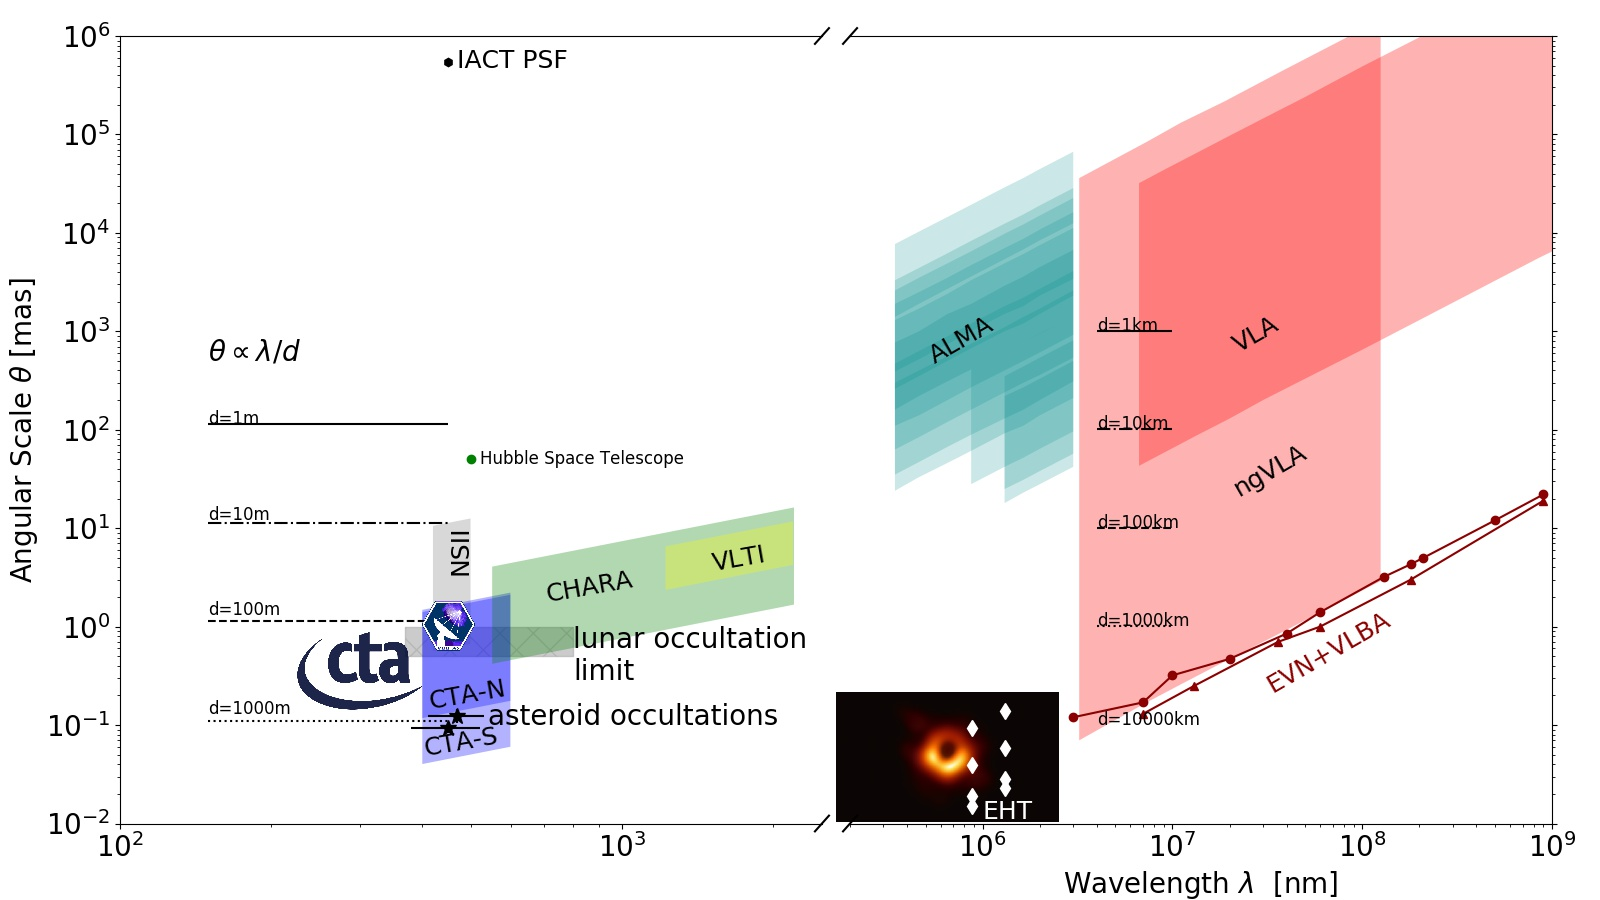
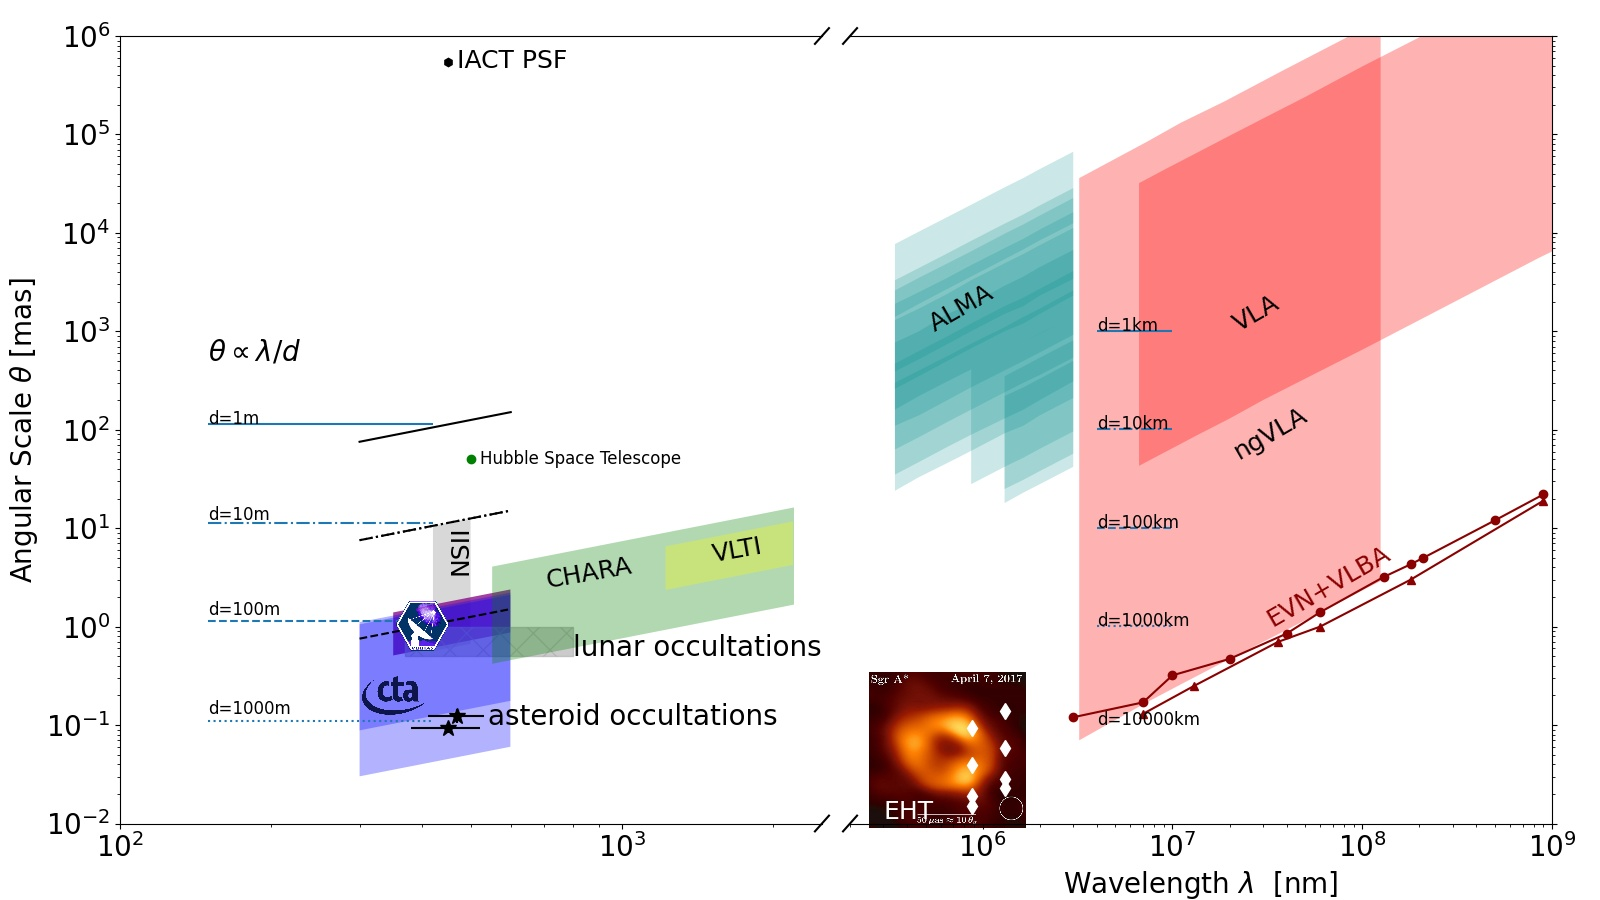
Add files via upload
Edited for EHT SgrA*

diff --git a/angres.py b/angres.py
@@ -20,13 +20,14 @@ f, (ax, ax2) = plt.subplots(1, 2, sharey=True, figsize=(16,9))
 #f.set_figheight(9)
 #f.set_figwidth(16)
 f.subplots_adjust(left=0.075, right=0.97, top=0.96, bottom=0.085, wspace=0.04, hspace=0.2)
-ax.set_xscale("log", nonposx='clip')
+# nonpos deprecated in python3.3, now nonpositive
+ax.set_xscale("log", nonpositive='clip')
 ax2.set_xlabel(r"Wavelength $\lambda$  [nm]")
-ax.set_yscale("log", nonposy='clip')
+ax.set_yscale("log", nonpositive='clip')
 ax.set_ylabel(r"Angular Scale $\theta$ [mas]")
 ax.axis([xmin, xmax, ymin, ymax])
-ax2.set_xscale("log", nonposx='clip')
-ax2.set_yscale("log", nonposy='clip')
+ax2.set_xscale("log", nonpositive='clip')
+ax2.set_yscale("log", nonpositive='clip')
 ax2.axis([xmin, xmax, ymin, ymax])
 #f.grid(which='both')
 
@@ -38,17 +39,19 @@ ax.text(450, 6, 'NSII', rotation=90, va='center', ha='left', fontsize=18)
 
 pltVTS = ax.plot(450, 0.15*1000*3600, marker='h', color='black') # pixel PSF
 ax.text(470., 0.13*1000*3600, "IACT PSF", fontsize=18)
-ax.plot(450, 0.66, marker='.', color='black', markersize=12) # T14
-ax.plot(450, 0.9, marker='.', color='black', markersize=12) # T13
-ax.plot(450, 1.02, marker='.', color='black', markersize=12) # T23
-ax.plot(450, 1.12, marker='.', color='black', markersize=12) # T24
-ax.plot(450, 1.14, marker='.', color='black', markersize=12) # T12
-ax.plot(450, 1.39, marker='.', color='black', markersize=12) # T34
+#ax.plot(450, 0.66, marker='.', color='black', markersize=12) # T14
+#ax.plot(450, 0.9, marker='.', color='black', markersize=12) # T13
+#ax.plot(450, 1.02, marker='.', color='black', markersize=12) # T23
+#ax.plot(450, 1.12, marker='.', color='black', markersize=12) # T24
+#ax.plot(450, 1.14, marker='.', color='black', markersize=12) # T12
+#ax.plot(450, 1.39, marker='.', color='black', markersize=12) # T34
 VTS_logo = mpimg.imread('VERITAS_logo.png')
 imagebox = OffsetImage(VTS_logo, zoom=0.1)
 imagebox.image.axes = ax
-ab = AnnotationBbox(offsetbox=imagebox, xy=(450, 0.5*(0.66+1.39)), frameon=False)
+ab = AnnotationBbox(offsetbox=imagebox, xy=(400, 0.5*(0.66+1.39)), frameon=False)
 ax.add_artist(ab)
+pltVTS = ax.fill_between(range(350, 600), [(3600*1000*180/np.pi)*1.22*x*1e-9/63.2 for x in range(350, 600)], [(3600*1000*180/np.pi)*1.22*x*1e-9/172.9 for x in range(350, 600)], interpolate=True, facecolor='purple', label='VTS-SII', alpha=0.75)
+#ax.text(420, (3600*1000*180/np.pi)*1.22*420e-9/182.9, 'VSII', rotation=10, fontsize=18, color='white', zorder=1, va='bottom')
 
 # asteroid occultations
 plImprinetta = ax.errorbar(470, 0.125, xerr=60, yerr=[[0.021], [0.022]], fmt='*', color='black', markersize=12, label='Imprinetta')
@@ -59,19 +62,19 @@ ax.text(x=540, y=0.1, s='asteroid occultations')
 lo=370
 hi=800
 ax.fill_between(range(lo, hi), [0.5 for x in range(lo, hi)], [1 for x in range(lo, hi)], interpolate=True, color="darkgrey", hatch='x', edgecolor='darkgrey', alpha=0.6, label='Lunar')
-ax.text(x=800, y=0.5, s='lunar occultation\nlimit', va='center')
+ax.text(x=800, y=0.5, s='lunar occultations', va='baseline')
 
 ctall=300
 ctalh=600
 pltCTAS = ax.fill_between(range(ctall, ctalh), [(3600*1000*180/np.pi)*1.22*x*1e-9/68 for x in range(ctall, ctalh)], [(3600*1000*180/np.pi)*1.22*x*1e-9/2503.8 for x in range(ctall, ctalh)], interpolate=True, facecolor='blue', alpha=0.3, label='CTA-S')
-ax.text(ctall, 0.05, 'CTA-S', rotation=10, fontsize=18)
+#ax.text(ctall, 0.05, 'CTA-S', rotation=10, fontsize=18)
 pltCTAN = ax.fill_between(range(ctall, ctalh), [(3600*1000*180/np.pi)*1.22*x*1e-9/71.56 for x in range(ctall, ctalh)], [(3600*1000*180/np.pi)*1.22*x*1e-9/854.7 for x in range(ctall, ctalh)], interpolate=True, facecolor='b', alpha=0.3, label='CTA-N')
-ax.text(ctall, 0.15, 'CTA-N', rotation=10, fontsize=18)
+#ax.text(ctall, 0.15, 'CTA-N', rotation=10, fontsize=18)
 CTA_logo = mpimg.imread('CTA_Logo.png')
 imagebox = OffsetImage(CTA_logo, zoom=0.05)
 imagebox.image.axes = ax
-ab = AnnotationBbox(offsetbox=imagebox, xy=(ctall-50, 0.2), frameon=False)
-ax.add_artist(ab)
+ab = AnnotationBbox(offsetbox=imagebox, xy=(ctall+50, 0.2), frameon=False)
+ax.add_artist(ab) # change from ctall-50
 
 pltCHARA = ax.fill_between(range(551, 2200), [(3600*1000*180/np.pi)*1.22*x*1e-9/34.07 for x in range(551, 2200)], [(3600*1000*180/np.pi)*1.22*x*1e-9/330.66 for x in range(551, 2200)], interpolate=True, facecolor='green', alpha=0.3, label='CHARA')
 ax.text(700., 2.5, "CHARA", va='baseline', ha='left', rotation=10, fontsize=18)
@@ -172,10 +175,14 @@ pltVLBI = ax2.plot(1e9*GHz/100, AR, marker='^', color='darkred', label='EVN+VLBA
 ax2.text(3e7, 1, "EVN+VLBA", rotation=30, fontsize=18, color='darkred')
 
 # EHT
-M87 = mpimg.imread('M87.jpg')
-imagebox = OffsetImage(M87, zoom=0.2)
+#M87 = mpimg.imread('M87.jpg')
+# Sgr A*
+# https://iopscience.iop.org/article/10.3847/2041-8213/ac6674
+EHT = mpimg.imread('SgrA.jpg')
+imagebox = OffsetImage(EHT, zoom=0.18)
 imagebox.image.axes = ax2
-ab = AnnotationBbox(offsetbox=imagebox, xy=(6.5e5, 0.047), frameon=False)
+#ab = AnnotationBbox(offsetbox=imagebox, xy=(6.5e5, 0.047), frameon=False) # M87 image
+ab = AnnotationBbox(offsetbox=imagebox, xy=(6.5e5, 0.055), frameon=False) # Sgr A* image
 ab.set_zorder(1)
 ax2.add_artist(ab)
 # https://eventhorizontelescope.org/technology
@@ -196,7 +203,8 @@ ax2.plot(b, 19e-3, marker='d', color='white', markersize=8) # LMT - SMT
 ax2.plot(a, 23e-3, marker='d', color='white', markersize=8) # LMT - SMT
 ax2.plot(b, 15e-3, marker='d', color='white', markersize=8) # LMT - SMT
 #ax2.text(9.5e5, 50e-3, "EHT", rotation=90, color='white', fontsize=18)
-ax2.text(1e6, 1.1e-2, "EHT", color='white', fontsize=18)
+#ax2.text(1e6, 1.1e-2, "EHT", color='white', fontsize=18)
+ax2.text(3e5, 1.1e-2, "EHT", color='white', fontsize=18)
 
 #ax.plot(pts)
 #ax2.plot(pts)
@@ -225,11 +233,15 @@ ax2.plot((-d, +d), (1-d, 1+d), **kwargs) # bottom left diagonal
 ax2.plot((-d, +d), (-d, +d), **kwargs) # top right diagonal
 
 xmin=150
-xmax=450
+xmax=420
 pl1m = ax.hlines(y=113.24, xmin=xmin, xmax=xmax, label='1m', linestyle='-')
+ax.plot((300, 600), (1000*3600*np.degrees(1.22*300e-9/1), 1000*3600*np.degrees(1.22*600e-9/1)), 'k-')
 pl10m = ax.hlines(y=11.324, xmin=xmin, xmax=xmax, label='10m', linestyle='-.')
+ax.plot((300, 600), (1000*3600*np.degrees(1.22*300e-9/10), 1000*3600*np.degrees(1.22*600e-9/10)), 'k-.')
 pl1100m = ax.hlines(y=1.1324, xmin=xmin, xmax=xmax, label='100m', linestyle='--')
+ax.plot((300, 600), (1000*3600*np.degrees(1.22*300e-9/100), 1000*3600*np.degrees(1.22*600e-9/100)), 'k--')
 pl1km = ax.hlines(y=0.11, xmin=xmin, xmax=xmax, label='1km', linestyle=':')
+ax.plot((300, 600), (1000*3600*np.degrees(1.22*300e-9/10), 1000*3600*np.degrees(1.22*600e-9/10)), 'k:')
 ax.text(xmin, 500, r'$\theta \propto \lambda / d$')
 ax.text(xmin, 115, "d=1m", fontsize=12)
 ax.text(xmin, 12, "d=10m", fontsize=12)
